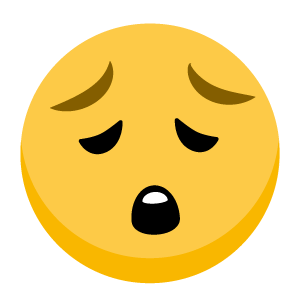
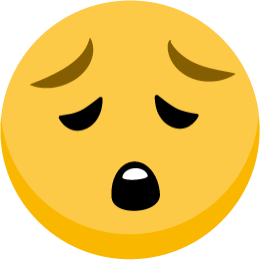
FDV styles with new emojis

diff --git a/client/app/views/familydailyview.html b/client/app/views/familydailyview.html
@@ -22,14 +22,14 @@ There might be other things you can do with
                     <canvas id="doughnut" class="chart-doughnut" chart-data="member.sleep" chart-labels="labels" chart-colors ="colors" chart-options="options">
                     </canvas>
                 </div>
-                 <img ng-src={{$ctrl.states[member.name].image}} class="mood-pics">
-                 <p>Mood reported to be {{$ctrl.states[member.name].mood | uppercase}}</p>
-                 <div class="single-view-button">
+                <img ng-src={{$ctrl.states[member.name].image}} class="mood-pics">
+                <div class="single-view-button">
                     <a ng-href="#!/sdview/{{member.name}}" class="btn btn-primary"> Single Daily View</a><!--want an ng-if here to show only after daily sleep and self-report is available -->
                 </div>
-                 <div>
+                <div>
                     <p class="hours-slept">Hours slept: <br>5</p>
                 </div>
+                <p class="mood-report">Mood reported to be {{$ctrl.states[member.name].mood | uppercase}}</p>
             </div>
             <div ng-if=!$ctrl.states[member.name].state>
                 <div ng-controller="PiechartcontrollerCtrl" class="chart-placement">
@@ -56,14 +56,14 @@ There might be other things you can do with
                     <canvas id="doughnut" class="chart-doughnut" chart-data="member.sleep" chart-labels="labels" chart-colors ="colors" chart-options="options">
                     </canvas>
                 </div>
-                 <img ng-src={{$ctrl.states[member.name].image}} class="mood-pics">
-                 <p> Mood reported to be {{$ctrl.states[member.name].mood | uppercase}}</p>
-                 <div class="single-view-button">
+                <img ng-src={{$ctrl.states[member.name].image}} class="mood-pics">
+                <div class="single-view-button">
                     <a ng-href="#!/sdview/{{member.name}}" class="btn btn-primary"> Single Daily View</a><!--want an ng-if here to show only after daily sleep and self-report is available -->
                 </div>
-                 <div>
+                <div>
                     <p class="hours-slept">Hours slept: <br>5</p>
                 </div>
+                <p class="mood-report"> Mood reported to be {{$ctrl.states[member.name].mood | uppercase}}</p>
             </div>
             <div ng-if=!$ctrl.states[member.name].state>
                 <div ng-controller="PiechartcontrollerCtrl" class="chart-placement">

diff --git a/client/app/styles/partials/_familydailyview.scss b/client/app/styles/partials/_familydailyview.scss
@@ -90,8 +90,15 @@
 }
 
 .single-view-button {
-    margin-top: -250px;
+    margin-top: -220px;
     margin-left: 90px;
+}
+
+.single-view-button .btn {
+  background-color: #d6c3db;
+  border-color: #d6c3db;
+  color: black;
+  box-shadow: 0 2px 5px 0 rgba(0, 0, 0, 0.26);
 }
 
 .target-hours {
@@ -101,11 +108,11 @@
 }
 
 .mood-pics {
-  position: absolute; 
-  width: 100px; 
+  position: absolute;
+  width: 100px;
   height: 100px;
-  top: 105px; 
-  left: 120px; 
+  top: 105px;
+  left: 120px;
   z-index: 1;
 }
 
@@ -127,16 +134,20 @@
 .fdv-even-column {
   margin-right: 125px;
   margin-bottom: 20px;
-  height: 260px;
+  height: 270px;
 }
 
 .fdv-odd-column {
   margin-left: 160px;
   margin-bottom: 20px;
-  height: 260px;
+  height: 270px;
 }
 
 .hours-slept {
   margin-top: 70px;
   font-size: small;
+}
+
+.mood-report {
+  margin-top: 85px;
 }
